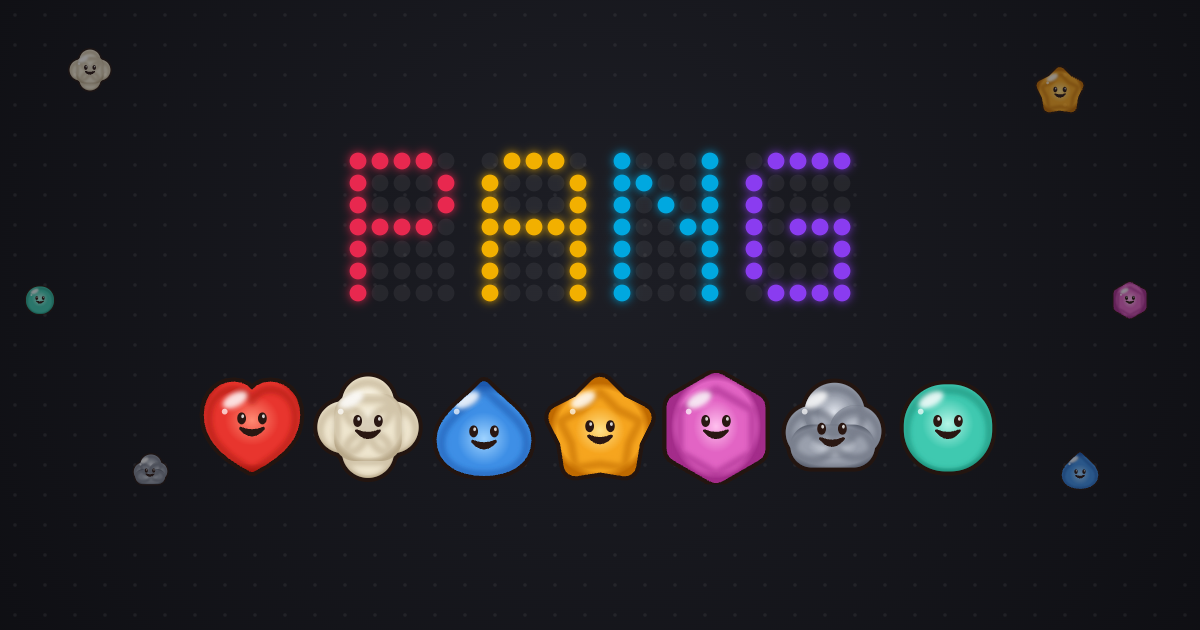
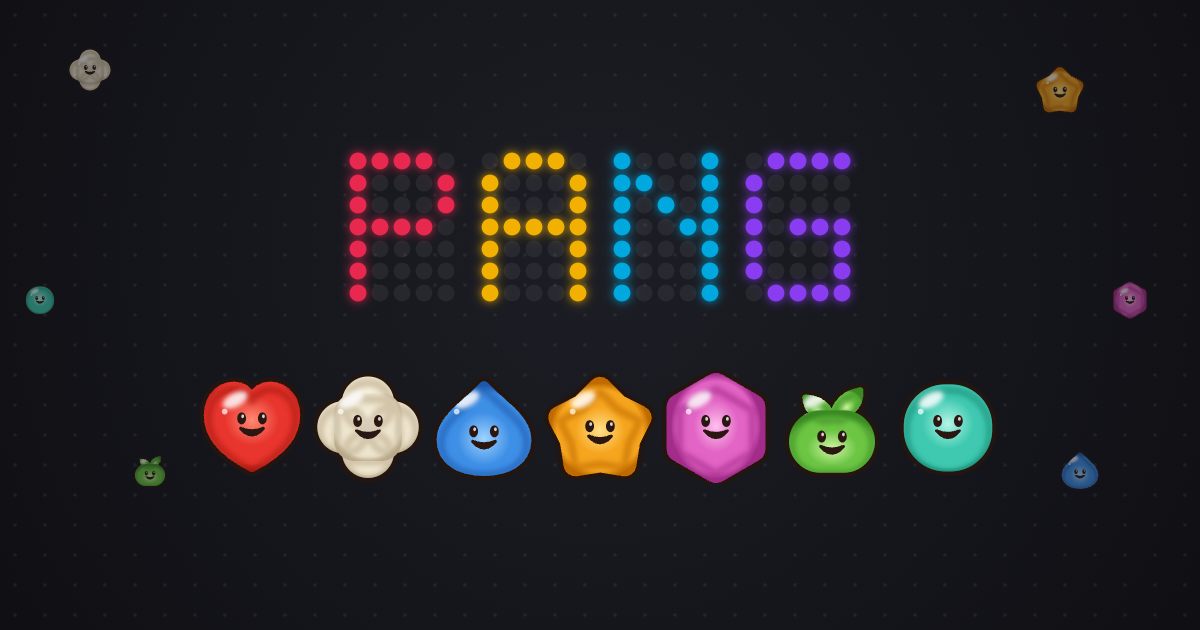
Add files via upload

Changed region(s): [[0.6475, 0.6032, 0.74, 0.754], [0.0925, 0.7238, 0.1542, 0.7841]]

diff --git a/index.html b/index.html
@@ -102,7 +102,7 @@ background-image:radial-gradient(rgba(255,255,255,.06) 1px,transparent 1.5px),ra
 .pix[data-ic=flag]{color:var(--sub);width:12px;height:12px}
 .pix[data-ic=bolt]{color:var(--gold);width:12px;height:12px}
 </style>
-<script>/* 옛 버전 캐시 자동 갱신 */(function(){var V="1792697822";try{fetch(location.pathname+"?_="+Date.now(),{cache:"no-store"}).then(function(r){return r.text()}).then(function(t){var m=t.match(/var V="(\d+)"/);if(m&&m[1]!==V&&!/[?&]v=/.test(location.search+"")){location.replace(location.pathname+"?v="+m[1])}else if(m&&m[1]!==V&&location.search.indexOf("v="+m[1])<0){location.replace(location.pathname+"?v="+m[1])}}).catch(function(){})}catch(e){}})();</script>
+<script>/* 옛 버전 캐시 자동 갱신 */(function(){var V="1792699446";try{fetch(location.pathname+"?_="+Date.now(),{cache:"no-store"}).then(function(r){return r.text()}).then(function(t){var m=t.match(/var V="(\d+)"/);if(m&&m[1]!==V&&!/[?&]v=/.test(location.search+"")){location.replace(location.pathname+"?v="+m[1])}else if(m&&m[1]!==V&&location.search.indexOf("v="+m[1])<0){location.replace(location.pathname+"?v="+m[1])}}).catch(function(){})}catch(e){}})();</script>
 <meta http-equiv="Cache-Control" content="no-cache">
 <script>/* 카톡 등 인앱 브라우저: 실제 보이는 높이로 화면 맞춤 */(function(){var d=document.documentElement;function f(){var h=window.innerHeight,v=window.visualViewport;if(v&&v.height>0)h=Math.min(h,Math.round(v.height));d.style.setProperty('--app-h',h+'px');if(typeof layout==='function')requestAnimationFrame(function(){layout()})}f();addEventListener('resize',f);if(window.visualViewport)visualViewport.addEventListener('resize',f);if(document.fonts&&document.fonts.ready)document.fonts.ready.then(f);addEventListener('orientationchange',function(){setTimeout(f,300)});addEventListener('pageshow',f);setTimeout(f,250);setTimeout(f,1000)})();</script>
 <style>html,body{height:var(--app-h,100%)!important}@media (max-width:519px){.ph{bottom:auto!important;height:var(--app-h,100%)!important}}</style>
@@ -150,16 +150,16 @@ background-image:radial-gradient(rgba(255,255,255,.06) 1px,transparent 1.5px),ra
 const $=id=>document.getElementById(id);
 const store={get(k){try{return localStorage.getItem(k)}catch(e){return null}},set(k,v){try{localStorage.setItem(k,v)}catch(e){}}};
 /* ---------- piece art (SVG) ---------- */
-const COL={1:['#e8352e','#ff8a73','#a8170f'],2:['#efe6cf','#fffdf4','#b9a98a'],3:['#3e8fe6','#9fd3ff','#1c58ad'],4:['#f6a51e','#ffe08a','#c06a00'],5:['#e264c4','#ffc0ee','#a32c8a'],6:['#9aa0ad','#e3e7ef','#5f6573'],7:['#3fc9b0','#b4f5e6','#178a74']};
+const COL={1:['#e8352e','#ff8a73','#a8170f'],2:['#efe6cf','#fffdf4','#b9a98a'],3:['#3e8fe6','#9fd3ff','#1c58ad'],4:['#f6a51e','#ffe08a','#c06a00'],5:['#e264c4','#ffc0ee','#a32c8a'],6:['#6cc644','#d2f5a6','#3a8a24'],7:['#3fc9b0','#b4f5e6','#178a74']};
 const star=(cx,cy,R,r)=>'M'+[...Array(10)].map((_,k)=>{const a=-Math.PI/2+k*Math.PI/5,q=k%2?r:R;return (cx+q*Math.cos(a)).toFixed(2)+' '+(cy+q*Math.sin(a)).toFixed(2)}).join(' L')+'Z';
 const hexa=(cx,cy,R)=>'M'+[...Array(6)].map((_,k)=>{const a=Math.PI/6+k*Math.PI/3;return (cx+R*Math.cos(a)).toFixed(2)+' '+(cy+R*Math.sin(a)).toFixed(2)}).join(' L')+'Z';
 const SH={1:'<path d="M20 35.5C7.5 29 3.2 22.5 3.2 15.2C3.2 8.6 7.6 4.2 13 4.2C16.3 4.2 18.7 6 20 8.6C21.3 6 23.7 4.2 27 4.2C32.4 4.2 36.8 8.6 36.8 15.2C36.8 22.5 32.5 29 20 35.5Z"/>',
 2:'<circle cx="20" cy="10.5" r="9"/><circle cx="29.5" cy="20" r="9"/><circle cx="20" cy="29.5" r="9"/><circle cx="10.5" cy="20" r="9"/><rect x="8" y="8" width="24" height="24" rx="7"/>',
 3:'<path d="M20 4C27 11.5 36.5 16.5 36.5 25C36.5 32.6 29.6 37 20 37C10.4 37 3.5 32.6 3.5 25C3.5 16.5 13 11.5 20 4Z"/>',
 4:'<path d="'+star(20,21.3,16.2,11.6)+'"/>',5:'<path d="'+hexa(20,20.3,16.2)+'"/>',
-6:'<circle cx="12.5" cy="22" r="9.3"/><circle cx="21" cy="14.5" r="10.6"/><circle cx="29" cy="21.5" r="9"/><rect x="5" y="20" width="30.5" height="14.5" rx="7.2"/>',
+6:'<path d="M20 15.5C21.2 10.5 24.6 6.6 31 5.6C31.6 11.8 27.6 15.4 22 16.3Z"/><path d="M20 15.5C18.8 11.6 15.6 8.6 9.6 8.4C9.6 13.6 13.6 16.4 18.4 16.5Z"/><rect x="4.5" y="14.5" width="31" height="22" rx="11"/>',
 7:'<rect x="4" y="4.5" width="32" height="31.5" rx="15"/>'};
-const SW={1:3.5,2:2,3:3.5,4:9,5:10,6:2,7:2},FY={1:-1,2:0,3:4,4:2,5:0,6:3,7:0},CT={1:[.5,.42],2:[.5,.45],3:[.5,.62],4:[.5,.55],5:[.5,.48],6:[.5,.5],7:[.5,.45]};
+const SW={1:3.5,2:2,3:3.5,4:9,5:10,6:2,7:2},FY={1:-1,2:0,3:4,4:2,5:0,6:6,7:0},CT={1:[.5,.42],2:[.5,.45],3:[.5,.62],4:[.5,.55],5:[.5,.48],6:[.5,.62],7:[.5,.45]};
 function face(dy,mood){const o='#2a1712',hl=(x)=>`<ellipse cx="${x+.4}" cy="16.8" rx=".55" ry=".7" fill="#fff" opacity=".8"/>`;
   let eyes=`<ellipse cx="16" cy="17.6" rx="1.7" ry="2.3" fill="${o}"/><ellipse cx="24" cy="17.6" rx="1.7" ry="2.3" fill="${o}"/>${hl(16)}${hl(24)}`;
   let mouth=`<path d="M15.6 21.4Q20 26.6 24.4 21.4Q20 23.4 15.6 21.4Z" fill="${o}" stroke="${o}" stroke-width="1.2" stroke-linejoin="round"/>`;
